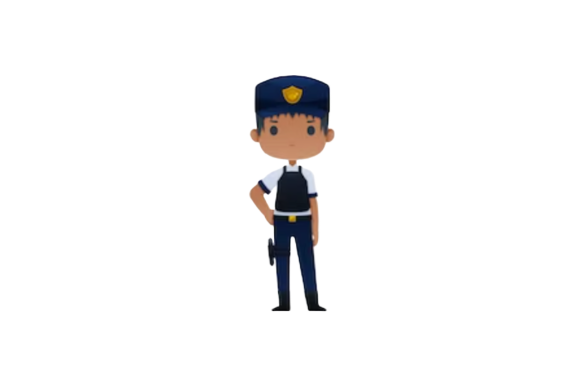
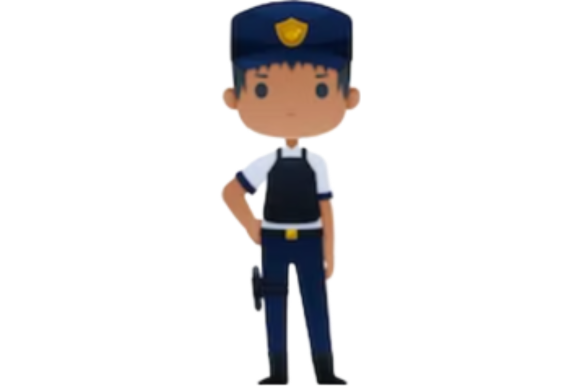
added images

Changed region(s): [[0.3724, 0.0, 0.6207, 1.0]]

diff --git a/templates/Homicide/crime_scene_1.html b/templates/Homicide/crime_scene_1.html
@@ -20,7 +20,7 @@
         #ev4{
             position: absolute;
             right: 570px;
-            bottom: 275px;
+            bottom: 260px;
         }
         #ev5{
             position: absolute;
@@ -42,7 +42,7 @@
             <button id="left" onclick="display_image_1()"> << </button>
 
             <button id="ev1" onclick="display_info(ev1)">
-                <img src = "{{url_for('static', filename='/images/officer.png')}}" alt="evidence_1" width="100px" height="200px">
+                <img src = "{{url_for('static', filename='/images/officer.png')}}" alt="evidence_1" width="300px" height="200px">
             </button>
             <button id="ev2" onclick="display_info(ev2)">
                 <img src = "{{url_for('static', filename='images/blood_splatter.png')}}" alt="evidence_2" width="100px" height="100px">
@@ -52,7 +52,7 @@
                 <img src = "{{url_for('static', filename='images/body_outline.png')}}" alt="evidence_3" width="100px" height="100px">
             </button>
             <button id="ev4" onclick="display_info(ev4)">
-                <img src = "{{url_for('static', filename='images/body_outline.png')}}" alt="evidence_4" width="100px" height="100px">
+                <img src = "{{url_for('static', filename='images/body_outline.png')}}" alt="evidence_4" width="400px" height="50px">
             </button>
 
             <button id="ev5" onclick="display_info(ev5)">

diff --git a/templates/Homicide/bad.html b/templates/Homicide/bad.html
@@ -1,0 +1,36 @@
+{% extends "statistics_temp.html" %}
+{% block content %}
+<div class="container">
+    <div class="box box-left">
+        Looks like you didn't solve the case this time. :(
+    </div>
+
+    <div class="center-container">
+        <div class="box box-top-center">
+            <p>This game was based on the case:<br><b>The Murder of Betsy Faria</b></p>
+            <a href="https://www.stlmag.com/longform/pam-hupp/">Click here to learn more about the case</a>
+        </div>
+         <!-- The image container -->
+         <div class="image-container">
+            <img src="{{url_for('static', filename='images/mascott.jpg')}}" alt="Image" width="400px" height="450px">
+        </div>
+    </div>
+
+    <div class="box box-right">
+        <p>Things you can do to lower your chances of being a victim to murder</p>
+        <p>Things you can do to lower your chances of being a victim to murder</p>
+    </div>
+</div>
+<div class="button-container">
+    <div class="box-bottom-left">
+        <a href="{{url_for('level_select')}}">
+            <button> Level Select </button>
+        </a>
+    </div>
+    <div class="box-bottom-right">
+        <a href="{{url_for('home')}}">
+            <button> Home </button>
+        </a>
+    </div>
+</div>
+{% endblock content %}
